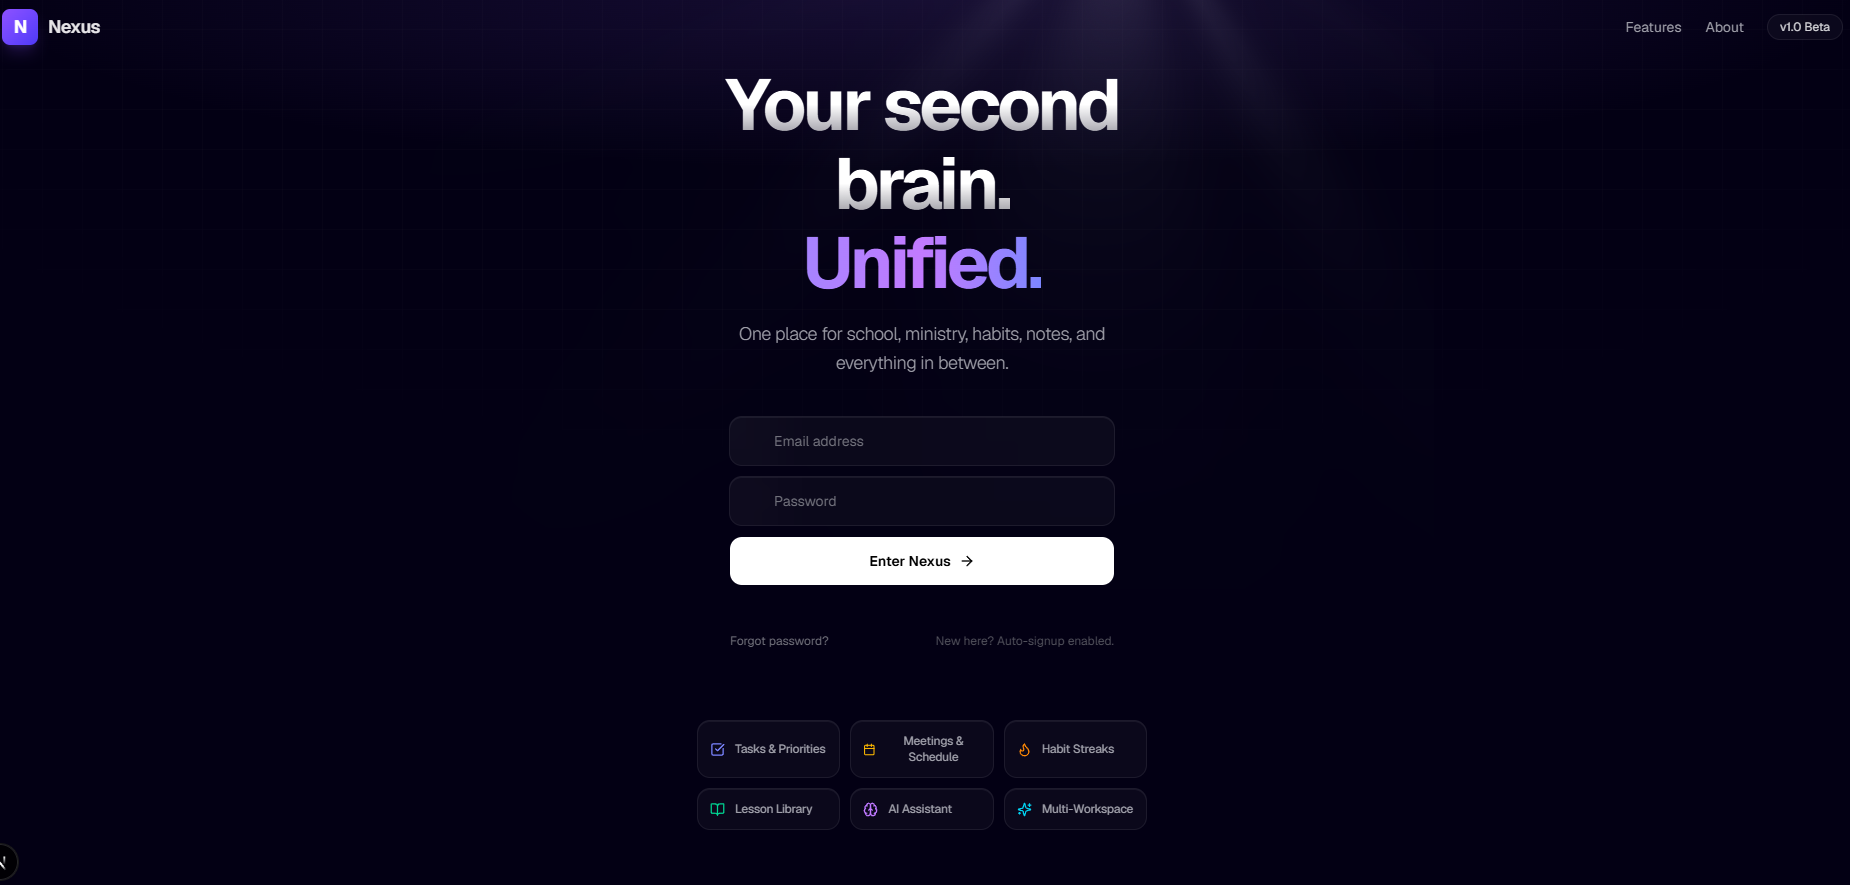
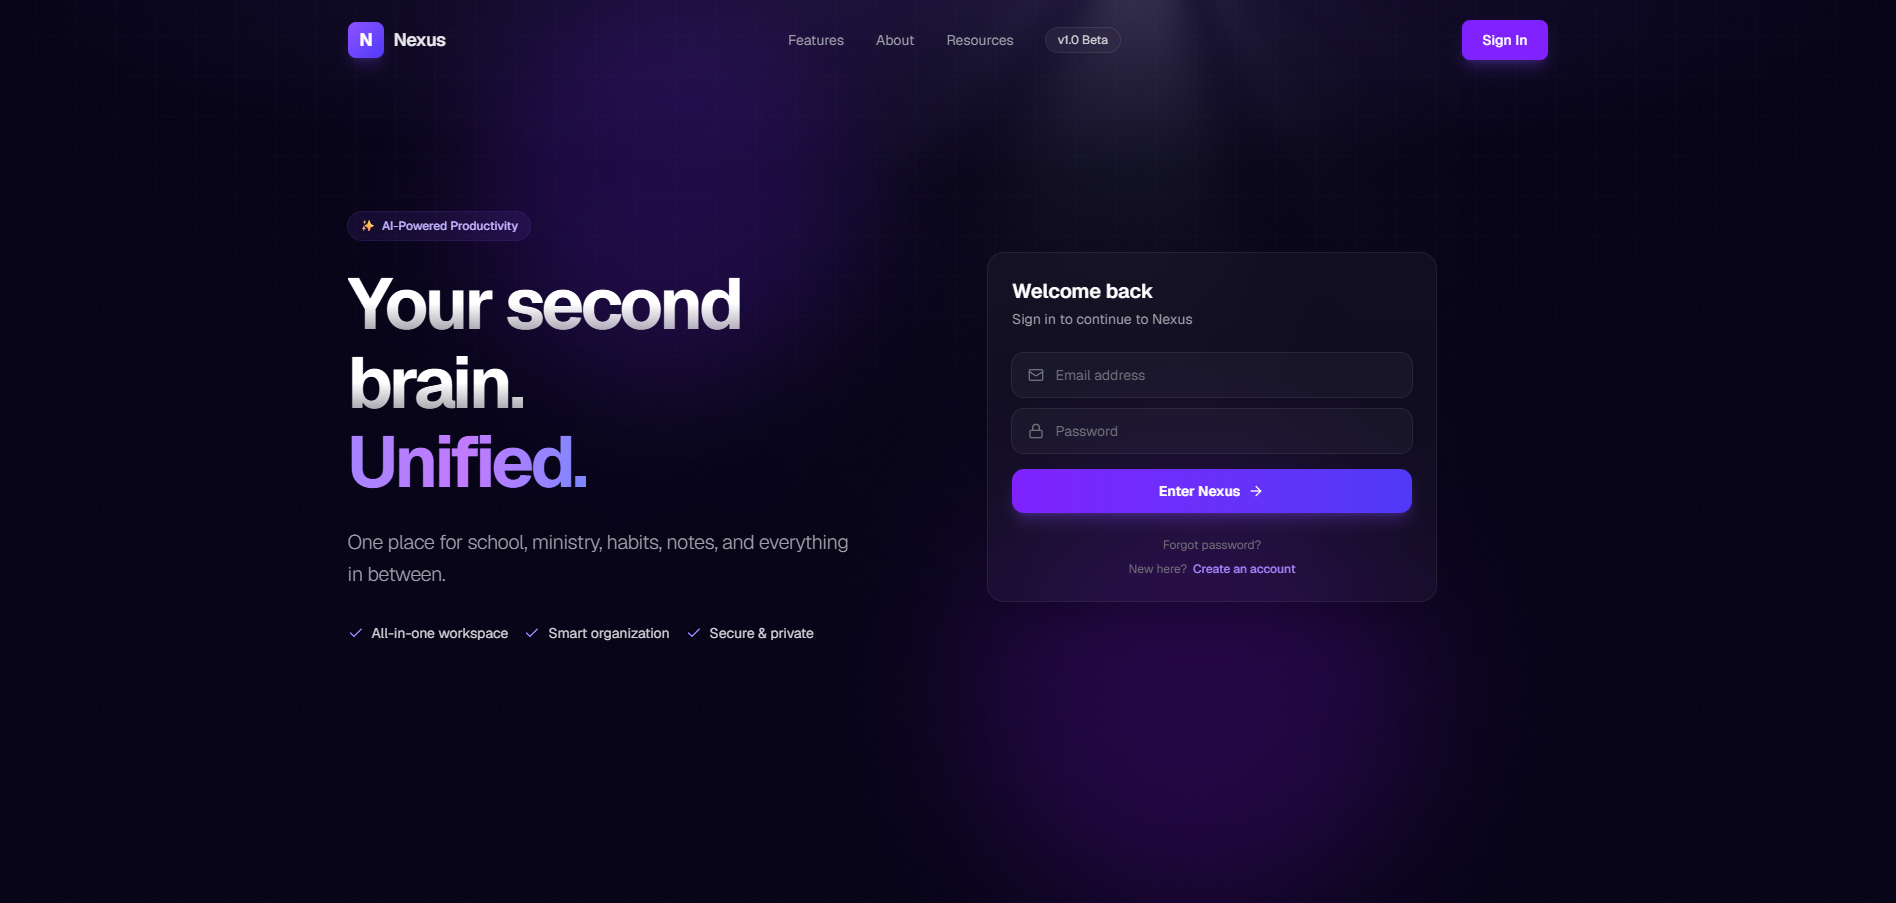
modified readme file and fix some minor changes

diff --git a/components/landing/LoginForm.tsx b/components/landing/LoginForm.tsx
@@ -92,6 +92,7 @@ export default function LoginForm({ onAuthSuccess }: LoginFormProps) {
               <Mail size={16} className="absolute left-4 top-1/2 -translate-y-1/2 text-zinc-500" />
               <input
                 type="email"
+                aria-label="Email address"
                 value={email}
                 onChange={(e) => setEmail(e.target.value)}
                 placeholder="Email address"

diff --git a/components/landing/Navbar.tsx b/components/landing/Navbar.tsx
@@ -32,7 +32,7 @@ export default function Navbar() {
       </motion.div>
 
       <motion.div 
-        className="hidden lg:flex items-center gap-8 text-sm"
+        className="hidden md:flex items-center gap-8 text-sm"
         initial={{ opacity: 0, x: 20 }}
         animate={{ opacity: 1, x: 0 }}
         transition={{ duration: 0.5 }}

diff --git a/readme.md b/readme.md
@@ -1,38 +1,45 @@
 # 🧠 Nexus: Your Second Brain, Unified
 
-**Nexus** is a personal productivity web app designed to unify multiple life contexts specifically School and Ministry into one seamless command center. It uses a unique **Workspace** architecture to keep data separable while sharing features, ensuring that tasks, meetings, and habits never overlap or get lost.
+**Nexus** is a personal productivity web app designed to unify multiple life contexts—specifically School and Ministry—into one seamless command center. It uses a unique **Workspace** architecture to keep data strictly separable while sharing core features, ensuring that tasks, meetings, and habits never overlap or get lost.
 
 ![Nexus Landing Page](./public/landing-page.png)
 
 ## ✨ Key Features
 
 - **Multi-Workspace Architecture:** Switch between School, Ministry, Work, and Personal contexts instantly. Data is strictly scoped to the active workspace.
-- **Accountability Banner:** Automatically detects overdue, unconfirmed tasks and prompts you to either mark them as done or reschedule them.
+- **Accountability Banner:** Automatically detects overdue, unconfirmed tasks and prompts you to either mark them as done or reschedule them intelligently.
 - **Intersecting Mini-Calendar:** A unified calendar view that visually intersects events and tasks from ALL active workspaces using color-coded dots.
-- **AI Secretary (Gemini Powered):** An AI assistant that doesn't just chat—it acts as a secretary. It can suggest rescheduling missed tasks, analyze calendar conflicts, and draft meeting agendas based on your active workspace context.
+- **AI Secretary (Groq Powered):** An AI assistant that doesn't just chat—it acts. It parses natural language to automatically create meetings, suggest rescheduling for missed tasks, and analyze calendar conflicts based on your active workspace context.
 - **Secure & Private:** Built with Supabase Auth and strict Row Level Security (RLS) policies. Your data is 100% isolated to your user ID.
 
 ![Dashboard View](./public/dashboard.png)
 
+## 🛠 Tech Stack
 
-##  Tech Stack
+- **Frontend:** Next.js 15 (App Router), React 19, TypeScript, Tailwind CSS, shadcn/ui, Framer Motion
+- **Backend & Database:** Supabase (PostgreSQL, Auth), Row Level Security (RLS)
+- **AI Integration:** Groq API (`llama-3.3-70b-versatile`) via `groq-sdk`
+- **Package Manager:** pnpm
+- **Deployment:** Vercel (CI/CD, Preview Deployments)
 
-- **Frontend:** Next.js 15 (App Router), TypeScript, Tailwind CSS, shadcn/ui (Radix UI)
-- **Backend & Database:** Supabase (PostgreSQL), Row Level Security (RLS)
-- **AI Integration:** Groq API (`llama 3.3 70B`) via `groq-sdk`
-- **Deployment Target:** Vercel
+## 🔒 Security & Architecture
+Nexus was built with a **backend-first approach**:
+1. Database schema and Row Level Security (RLS) policies were defined before any frontend code was written.
+2. Authentication state is managed securely using `@supabase/ssr` with Next.js 15's asynchronous cookie handling.
+3. Middleware is optimized to be cookie-only (no database queries), ensuring sub-millisecond routing checks and lightning-fast page loads.
 
-##  Installation & Setup
+## 🚀 Installation & Setup
 
 Follow these steps to get Nexus running locally on your machine.
 
 ### 1. Prerequisites
 Before you begin, ensure you have the following:
 - [Node.js](https://nodejs.org/) (v18 or higher) installed.
+- [pnpm](https://pnpm.io/) installed (`npm install -g pnpm`).
 - A free [Supabase](https://supabase.com/) project.
 - A free [Groq](https://console.groq.com/keys) API key.
 
 ### 2. Clone the Repository
 ```bash
-git clone https://github.com/YOUR_USERNAME/nexus.git
-cd nexus
+git clone https://github.com/Vincent-MV/workplace-app.git
+cd workplace-app
